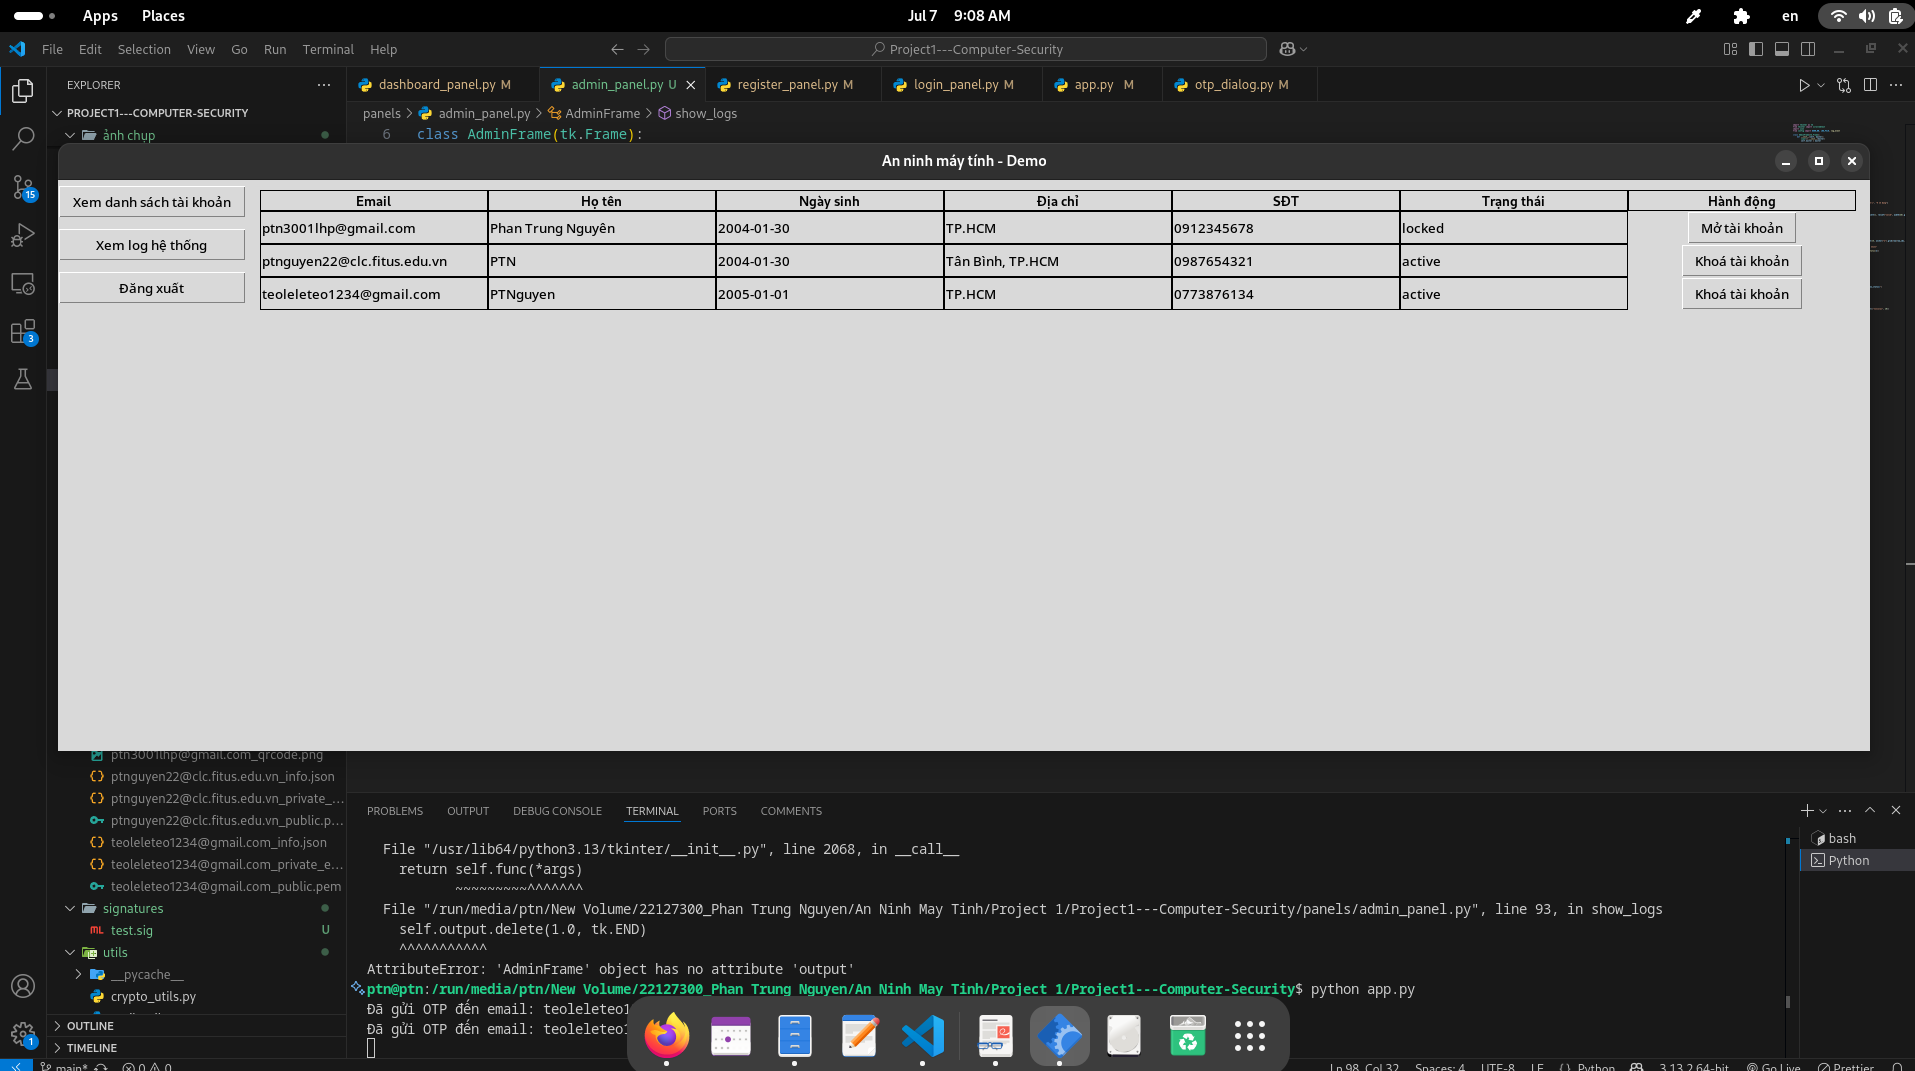
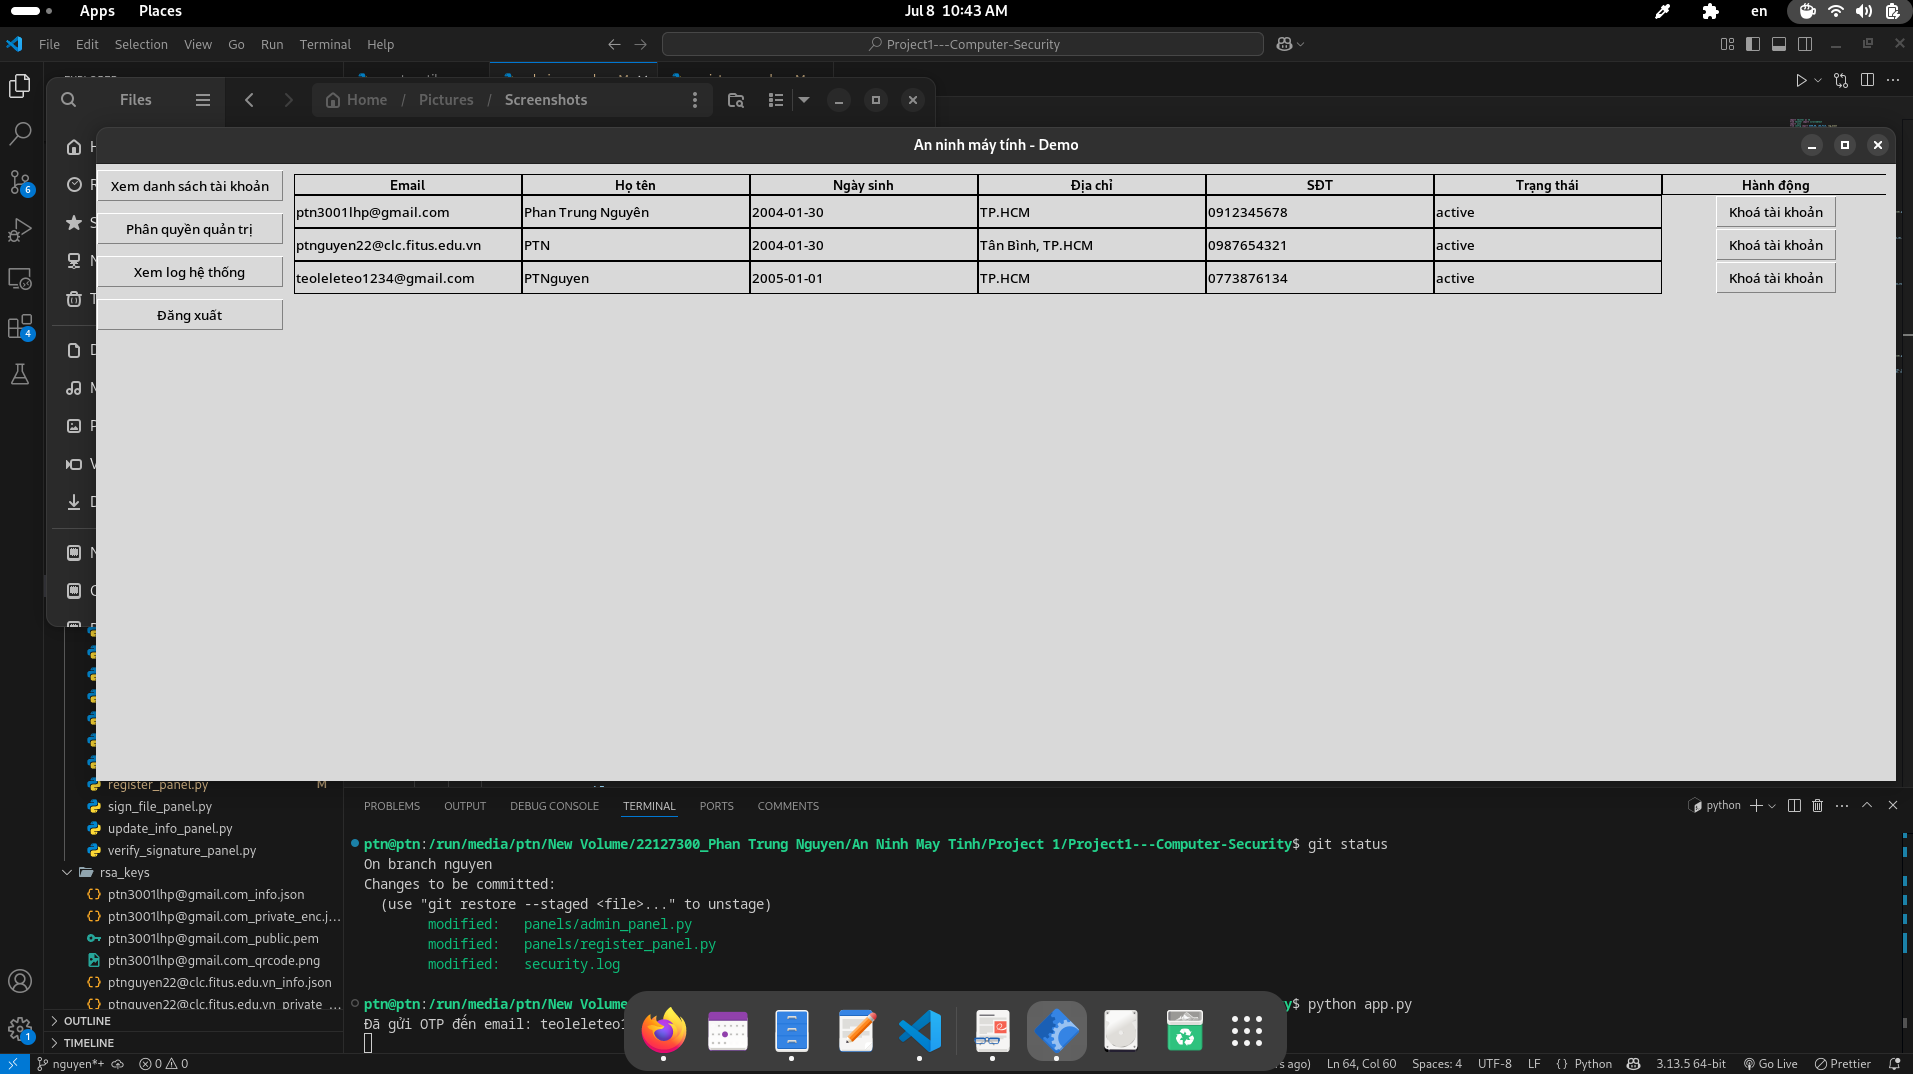
modify task 10

diff --git a/panels/admin_panel.py b/panels/admin_panel.py
@@ -14,6 +14,7 @@ class AdminFrame(tk.Frame):
 
         btns = [
             ("Xem danh sách tài khoản", self.show_users),
+            ("Phân quyền quản trị", self.set_roles),
             ("Xem log hệ thống", self.show_logs),
             ("Đăng xuất", self.logout)
         ]
@@ -79,7 +80,7 @@ class AdminFrame(tk.Frame):
             with open(USER_DB, "w", encoding="utf-8") as f:
                 json.dump(users, f, indent=2, ensure_ascii=False)
 
-            log_event(f"Admin cập nhật trạng thái tài khoản: {email} thành {new_status}")
+            log_event(f"Admin ({self.master.current_user}) cập nhật trạng thái tài khoản: {email} thành {new_status}")
             self.show_users()  # Refresh giao diện
         except Exception as e:
             tk.messagebox.showerror("Lỗi", f"Lỗi khi cập nhật: {str(e)}")
@@ -99,6 +100,52 @@ class AdminFrame(tk.Frame):
             self.output.insert(tk.END, logs)
         except FileNotFoundError:
             self.output.insert(tk.END, "Chưa có log nào.")
+
+    def set_roles(self):
+        self.clear_content()
+
+        try:
+            with open(USER_DB, "r", encoding="utf-8") as f:
+                users = json.load(f)
+        except FileNotFoundError:
+            users = {}
+
+        headers = ["Email", "Họ tên", "Role", "Lưu"]
+        table = tk.Frame(self.content)
+        table.pack(padx=10, pady=10)
+
+        # Header
+        for i, head in enumerate(headers):
+            tk.Label(table, text=head, font=("Segoe UI", 10, "bold"), borderwidth=1, relief="solid", width=28).grid(row=0, column=i)
+
+        # Danh sách user
+        for row_idx, (email, data) in enumerate(users.items(), start=1):
+            name = data.get("name", "")
+            current_role = data.get("role", "user")
+
+            tk.Label(table, text=email, borderwidth=1, relief="solid", width=28, anchor="w").grid(row=row_idx, column=0, sticky="nsew", pady=0)
+            tk.Label(table, text=name, borderwidth=1, relief="solid", width=28, anchor="w").grid(row=row_idx, column=1, sticky="nsew", pady=0)
+
+            role_var = tk.StringVar(value=current_role)
+            role_menu = tk.OptionMenu(table, role_var, "user", "admin")
+            role_menu.config(width=10)
+            role_menu.grid(row=row_idx, column=2, pady=0)
+
+            def save_role(email=email, var=role_var):
+                new_role = var.get()
+                try:
+                    with open(USER_DB, "r", encoding="utf-8") as f:
+                        users_data = json.load(f)
+                    if email in users_data:
+                        users_data[email]["role"] = new_role
+                        with open(USER_DB, "w", encoding="utf-8") as f:
+                            json.dump(users_data, f, indent=2, ensure_ascii=False)
+                        log_event(f"Admin ({self.master.current_user}) gán quyền {new_role} cho: {email}")
+                        tk.messagebox.showinfo("Thành công", f"Đã cập nhật quyền cho {email}")
+                except Exception as e:
+                    tk.messagebox.showerror("Lỗi", f"Không thể cập nhật quyền: {str(e)}")
+
+            tk.Button(table, text="Lưu", command=save_role).grid(row=row_idx, column=3)
 
     def clear_content(self):
         # Xóa nội dung bên phải

diff --git a/panels/register_panel.py b/panels/register_panel.py
@@ -54,13 +54,6 @@ class RegisterFrame(tk.Frame):
         year_cb.set(str(current_year - 20)) # Thiết lập giá trị mặc định là 20 tuổi =)))
         year_cb.pack(side="left")
 
-        # Combobox chọn role
-        tk.Label(form, text="Role:").grid(row=len(labels)+1, column=0, sticky="e", padx=5, pady=4)
-        self.role_var = tk.StringVar()
-        role_cb = ttk.Combobox(form, textvariable=self.role_var, width=28, values=["user", "admin"], state="readonly")
-        role_cb.set("user")  # Mặc định là user
-        role_cb.grid(row=len(labels)+1, column=1, pady=4)
-
         tk.Button(self, text="Đăng ký", command=self.register).pack(pady=10)
         tk.Button(self, text="← Quay lại đăng nhập", command=lambda: master.show_frame("LoginFrame")).pack()
 
@@ -74,7 +67,6 @@ class RegisterFrame(tk.Frame):
         month = self.month_var.get()
         year = self.year_var.get()
         dob = f"{year}-{month.zfill(2)}-{day.zfill(2)}"
-        role = self.role_var.get()
 
         if not all([email, name, dob, address, phone, pw]):
             messagebox.showwarning("Thiếu thông tin", "Vui lòng nhập đầy đủ thông tin.")
@@ -102,7 +94,7 @@ class RegisterFrame(tk.Frame):
             "phone": phone,
             "salt": salt,
             "pass_hash": pw_hash,
-            "role": role,
+            "role": "user",
             "status": "active"
         }
 
